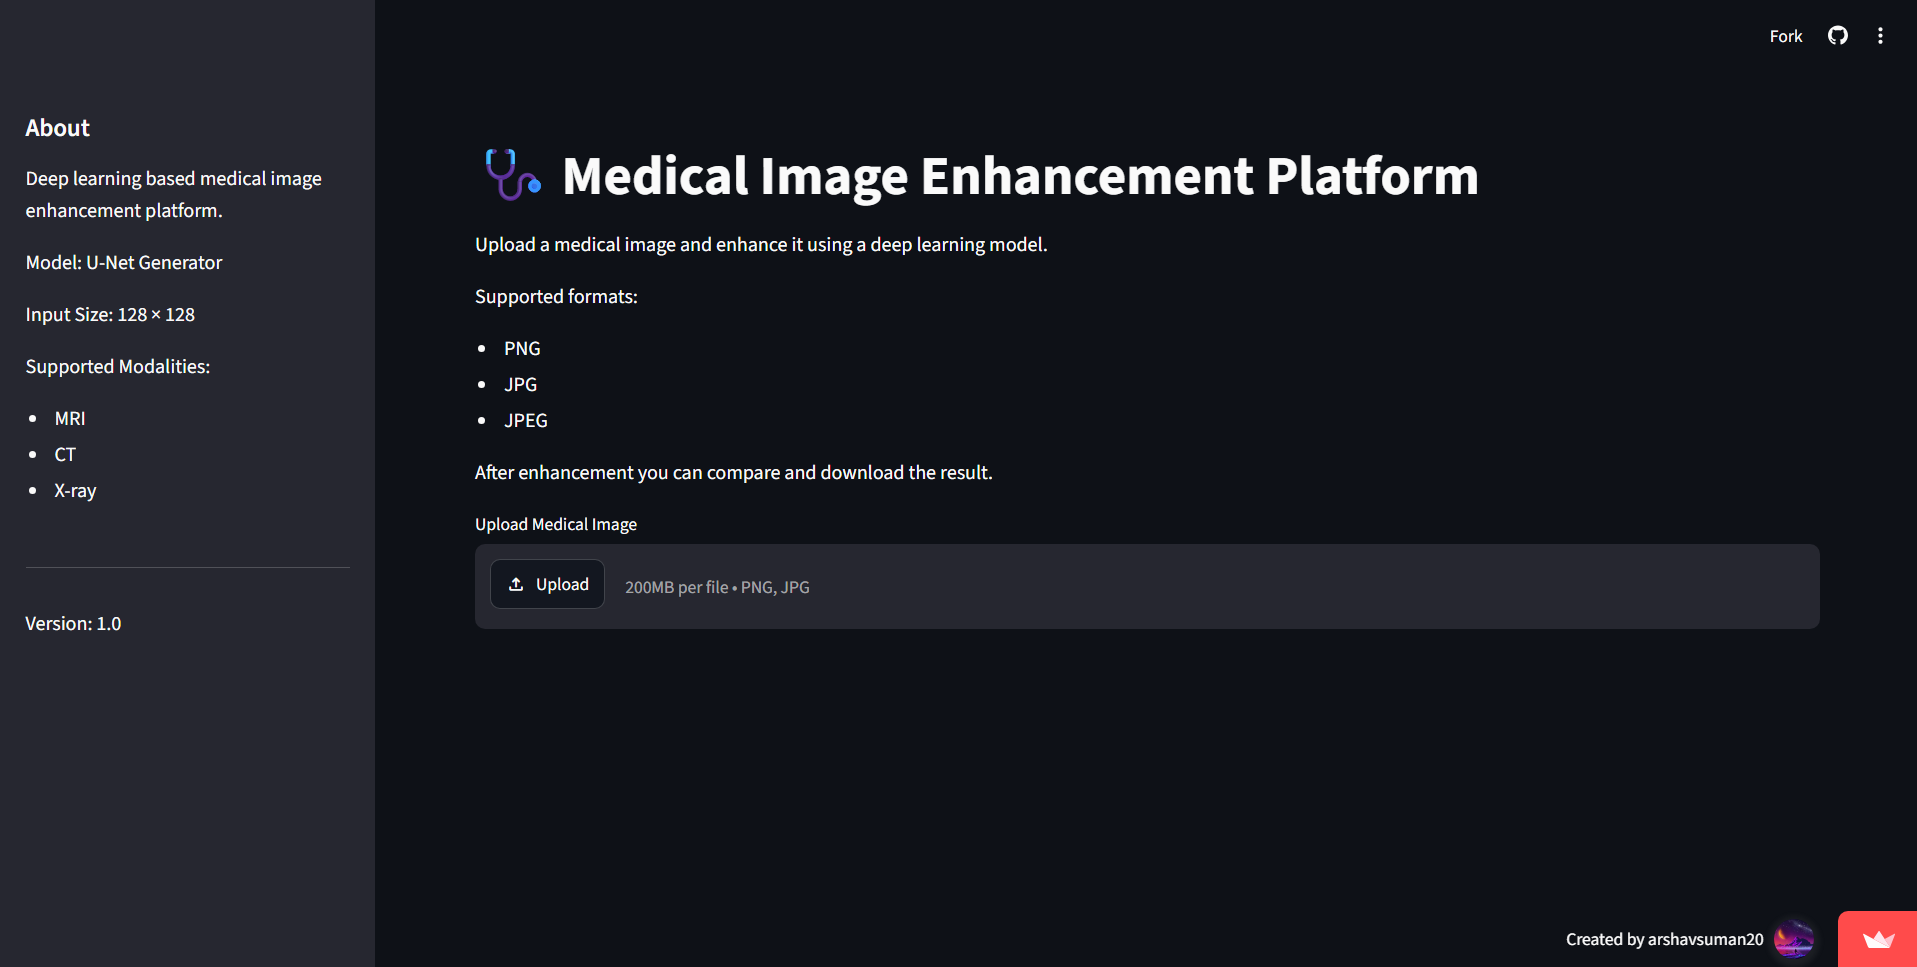
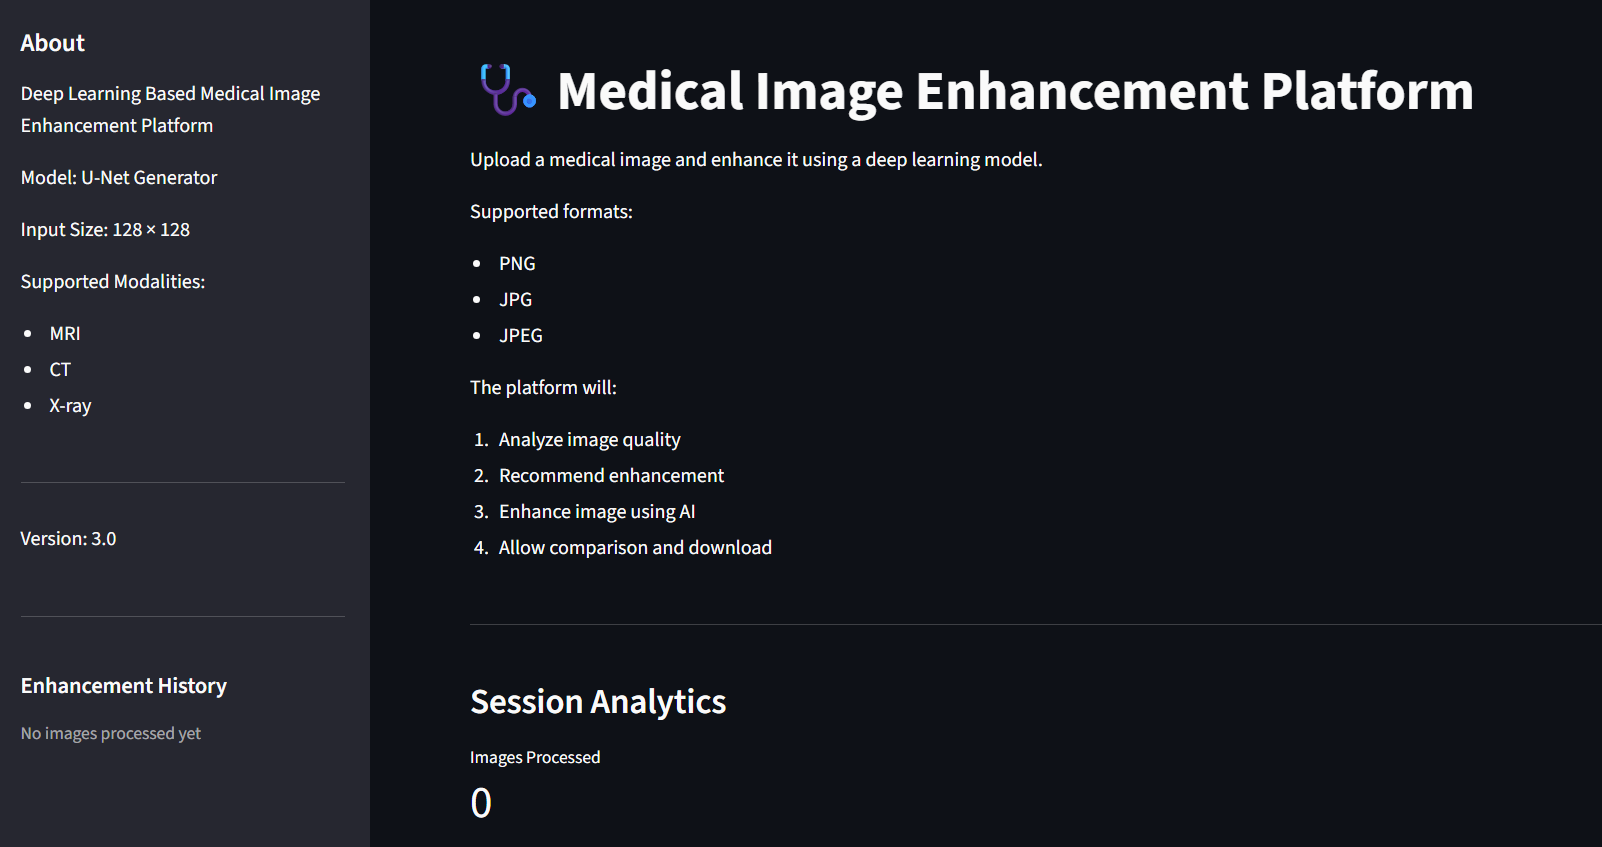
Updated changes

diff --git a/README.md b/README.md
@@ -4,7 +4,8 @@
 ![TensorFlow](https://img.shields.io/badge/TensorFlow-2.x-orange)
 ![Streamlit](https://img.shields.io/badge/Streamlit-Deployed-red)
 ![License](https://img.shields.io/badge/License-Educational-green)
-A deep learning-powered web application that enhances medical images using a U-Net-based image restoration model. The platform allows users to upload images, compare original and enhanced outputs using an interactive slider, and download the processed result in real time.
+
+A deep learning-powered web application that enhances noisy medical images using a trained U-Net-based image restoration model deployed with Streamlit. The platform allows users to upload images, compare original and enhanced outputs using an interactive slider, and download the processed result in real time.
 
 ---
 
@@ -64,12 +65,16 @@ A deep learning-powered web application that enhances medical images using a U-N
 ### Image Metadata & Processing Information
 
 ![Metadata](assets/screenshots/upload.png)
+![Metadata](assets/screenshots/upload2.png)
+![Metadata](assets/screenshots/upload3.png)
+![Metadata](assets/screenshots/upload4.png)
 
 ---
 
 ### Interactive Before vs After Comparison
 
 ![Comparison Slider](assets/screenshots/slider.png)
+![Difference Heatmap](assets/screenshots/difference_heatmap.png)
 ![Downloading](assets/screenshots/download.png)
 
 ---
@@ -160,24 +165,21 @@ Medical-Enhancement-App/
 │
 ├── assets/
 │   └── screenshots/
-│       ├── homepage.png
-│       ├── metadata.png
-│       └── comparison-slider.png
-│
-├── app.py
-├── requirements.txt
-├── README.md
-│
+│       ├── home_page.png
+│       ├── upload.png
+│       ├── upload2.png
+│       ├── upload3.png
+│       ├── upload4.png
+│       ├── slider.png
+│       ├── difference_heatmap.png
+│       └── download.png
+│        
 ├── models/
 │   └── final_model/
 │
-├── data/
-│
-├── train.py
-├── create_dataset.py
-├── prepare_mri_dataset.py
-├── evaluate.py
-└── convert_model.py
+├── app.py
+├── requirements.txt
+└── README.md
 ```
 
 ---
@@ -193,21 +195,13 @@ Medical-Enhancement-App/
 
 ---
 
-## Future Enhancements
+### Future Improvements
 
-### Version 2
-
-* Improved enhancement model
-* Support for additional medical imaging modalities
-* Higher-resolution inference
+* Higher-resolution image enhancement
+* Improved model architecture
+* Additional medical imaging modalities
 * Batch image processing
-
-### Version 3
-
-* User authentication
-* Cloud-based image storage
-* AI-generated enhancement reports
-* Advanced image quality assessment
+* PSNR and SSIM quality metrics
 
 ---
 
